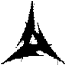
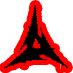
player textures and change bullet texture

diff --git a/Kickapoo/Map.cpp b/Kickapoo/Map.cpp
@@ -6,9 +6,13 @@ Map::Map()
 	wall = new Texture;
 	tower = new Texture;
 	tower_death = new Texture;
+	playerTexture = new Texture;
+	playerSelected = new Texture;
 	wall->load("gfx/wall.png");
 	tower->load("gfx/tower.png");
 	tower_death->load("gfx/tower_death.png");
+	playerTexture->load("gfx/player.png");
+	playerSelected->load("gfx/player_selected.png");
 }
 
 Map::~Map()
@@ -104,6 +108,8 @@ void Map::loadContent(vector<Player>& playerList, vector<Tower>& towerList)
 				Player player;
 				player.Position.x = j;
 				player.Position.y = i;
+				player.playerTexture = playerTexture;
+				player.playerSelectedTexture = playerSelected;
 				playerList.push_back(player);
 			}
 			else if(block == '^' || block == '&') 

diff --git a/Kickapoo/Player.cpp b/Kickapoo/Player.cpp
@@ -102,14 +102,17 @@ void Player::draw(bool drawStateList, bool drawFromState, float relativeTime) {
 		}
 
 		if(StateList.size()) {
+			playerSelectedTexture->set();
 			g_Renderer()->drawRect(lastPosition.x * BLOCK_SIZE+ BLOCK_SIZE/2, lastPosition.y * BLOCK_SIZE+ BLOCK_SIZE/2, 2, 2, D3DCOLOR_XRGB(190, 80, 80));
 		}
 	}
 
 	if(drawFromState && (state = findState(relativeTime)))	{
+		playerSelectedTexture->set();
 		g_Renderer()->drawRect(state->Position.x*BLOCK_SIZE, state->Position.y*BLOCK_SIZE, BLOCK_SIZE, BLOCK_SIZE);
 	}
 	else {
+		playerTexture->set();
 		g_Renderer()->drawRect(Position.x*BLOCK_SIZE, Position.y*BLOCK_SIZE, BLOCK_SIZE, BLOCK_SIZE);
 	}
 }

diff --git a/Kickapoo/Player.h b/Kickapoo/Player.h
@@ -27,6 +27,8 @@ public:
 	D3DXVECTOR2 Position;
 	D3DXVECTOR2 Velocity;
 	float LastShootTime;
+	Texture* playerTexture;
+	Texture* playerSelectedTexture;
 
 	bool contains(int x, int y)
 	{

diff --git a/Kickapoo/Game.cpp b/Kickapoo/Game.cpp
@@ -22,7 +22,7 @@ Game::Game(void)
 {
 	relativeTime = 0;
 	activePlayer = NULL;
-	changeState(EGameState::Intro);
+	changeState(EGameState::Tutorial);
 	map = NULL;
 }
 

diff --git a/Kickapoo/Map.h b/Kickapoo/Map.h
@@ -47,4 +47,6 @@ public:
 	Texture* wall;
 	Texture* tower;
 	Texture* tower_death;
+	Texture* playerTexture;
+	Texture* playerSelected;
 };
